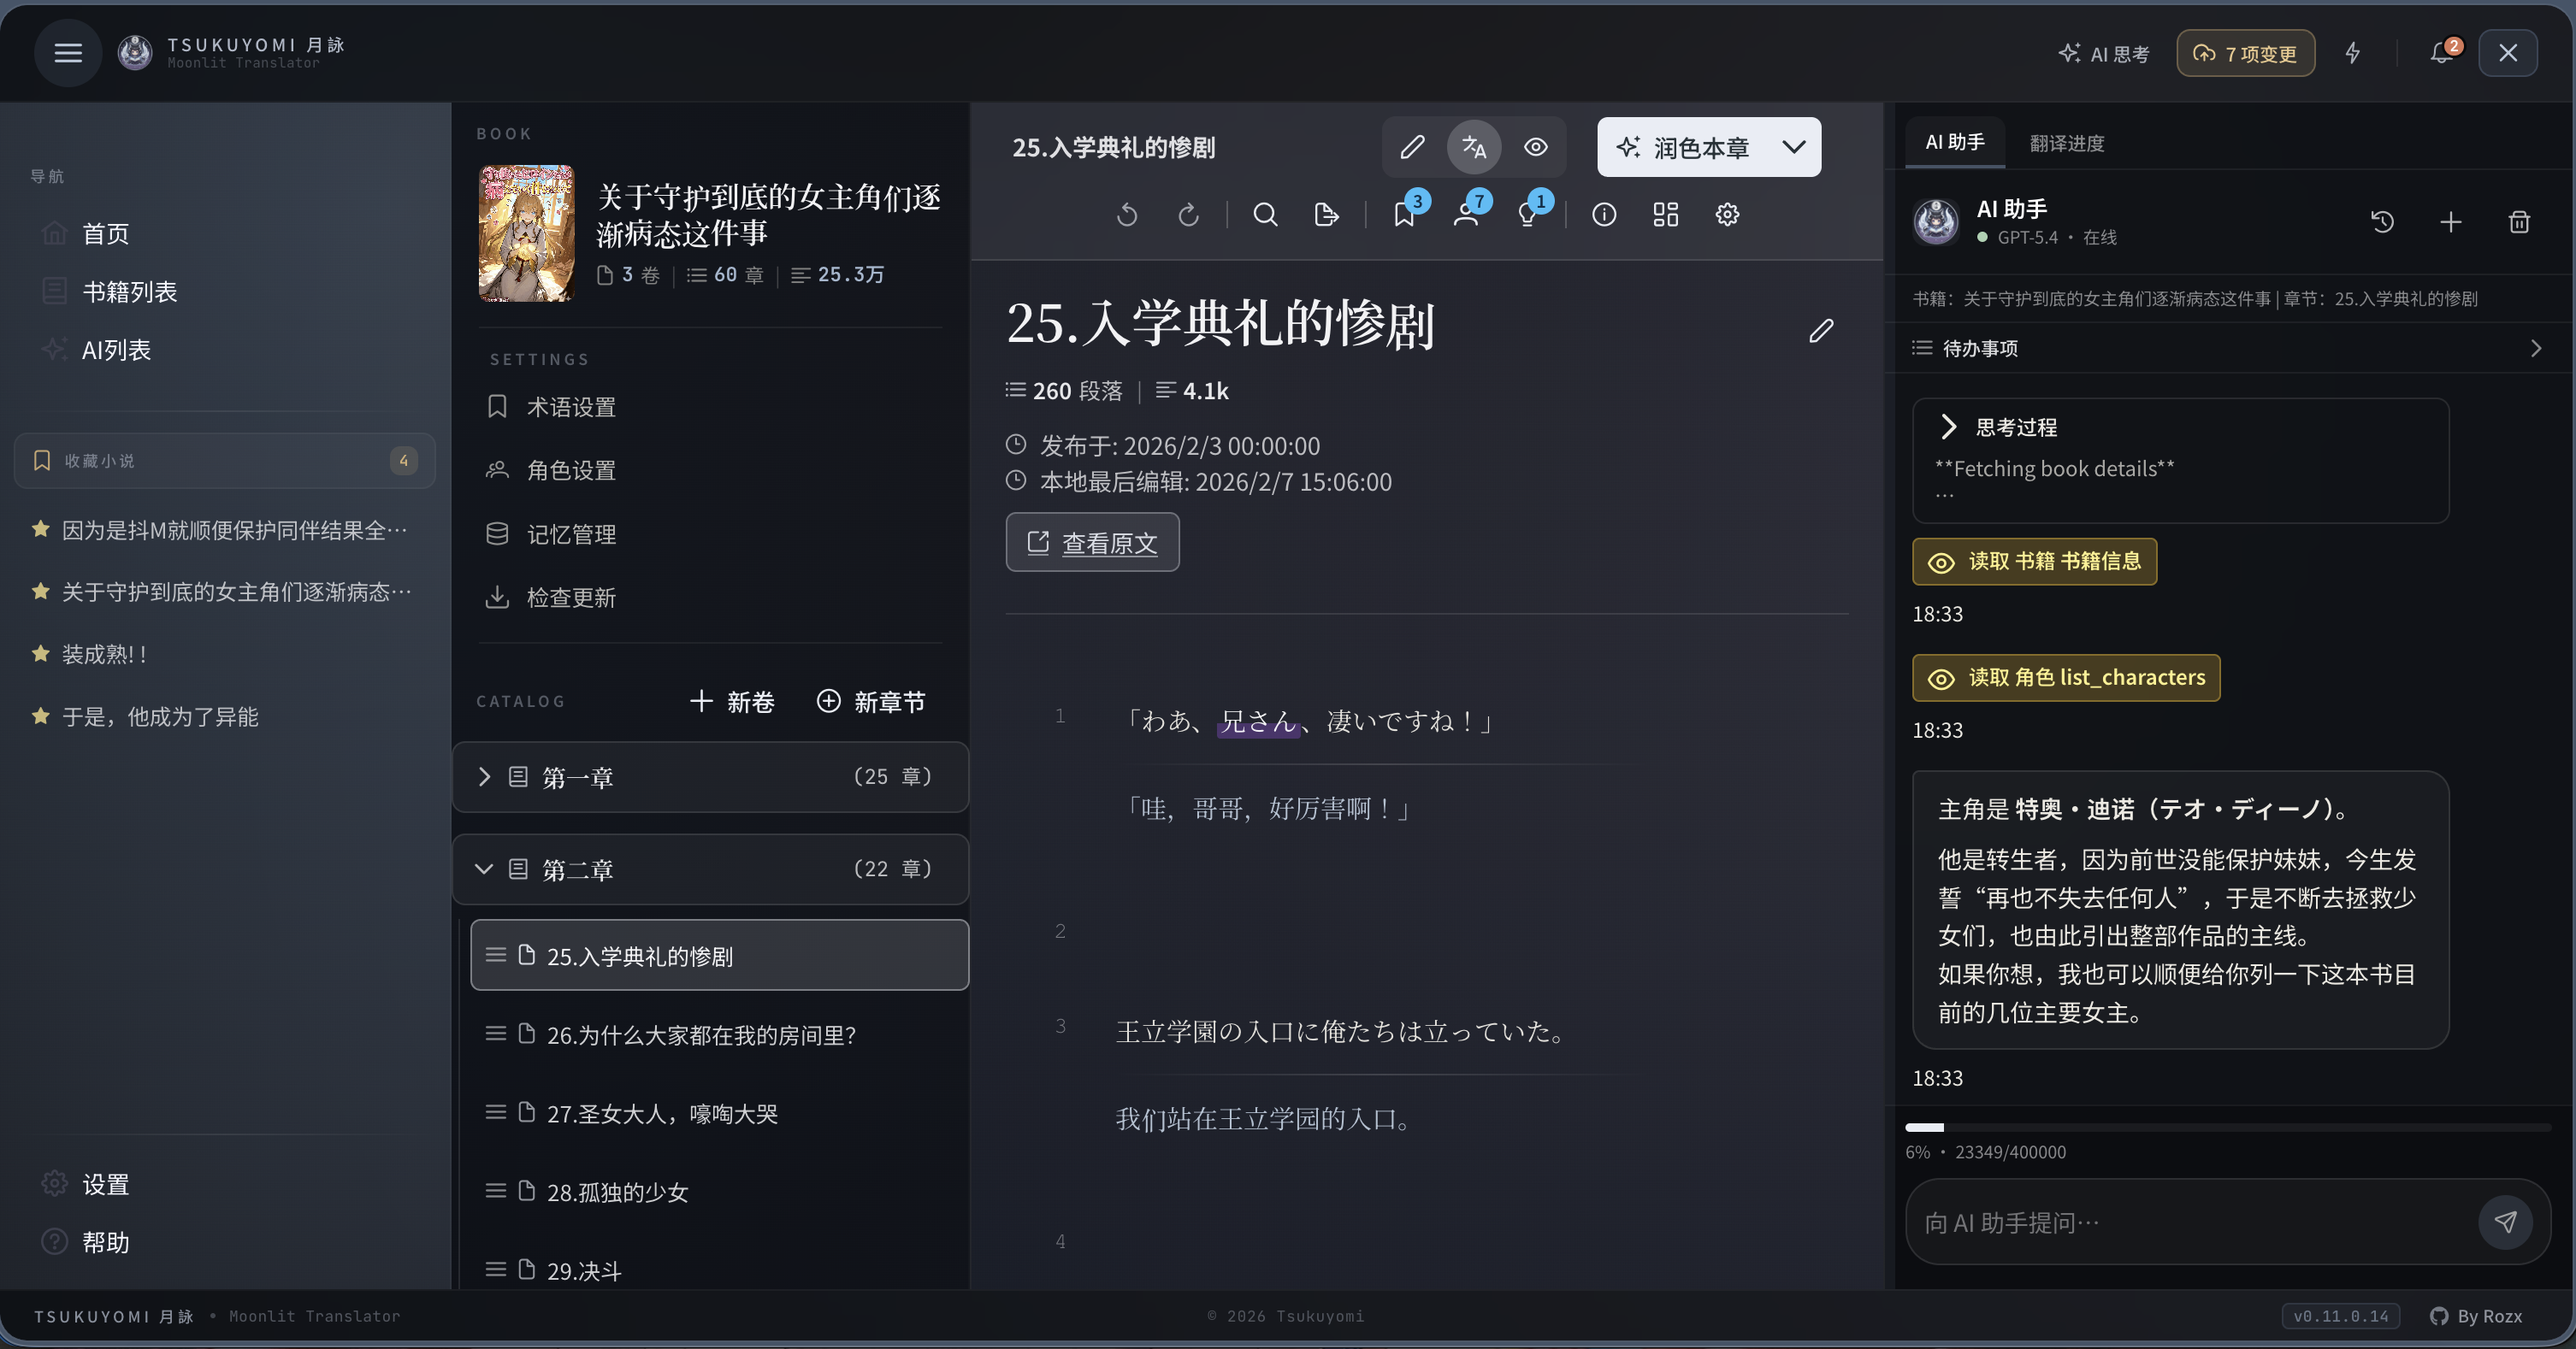
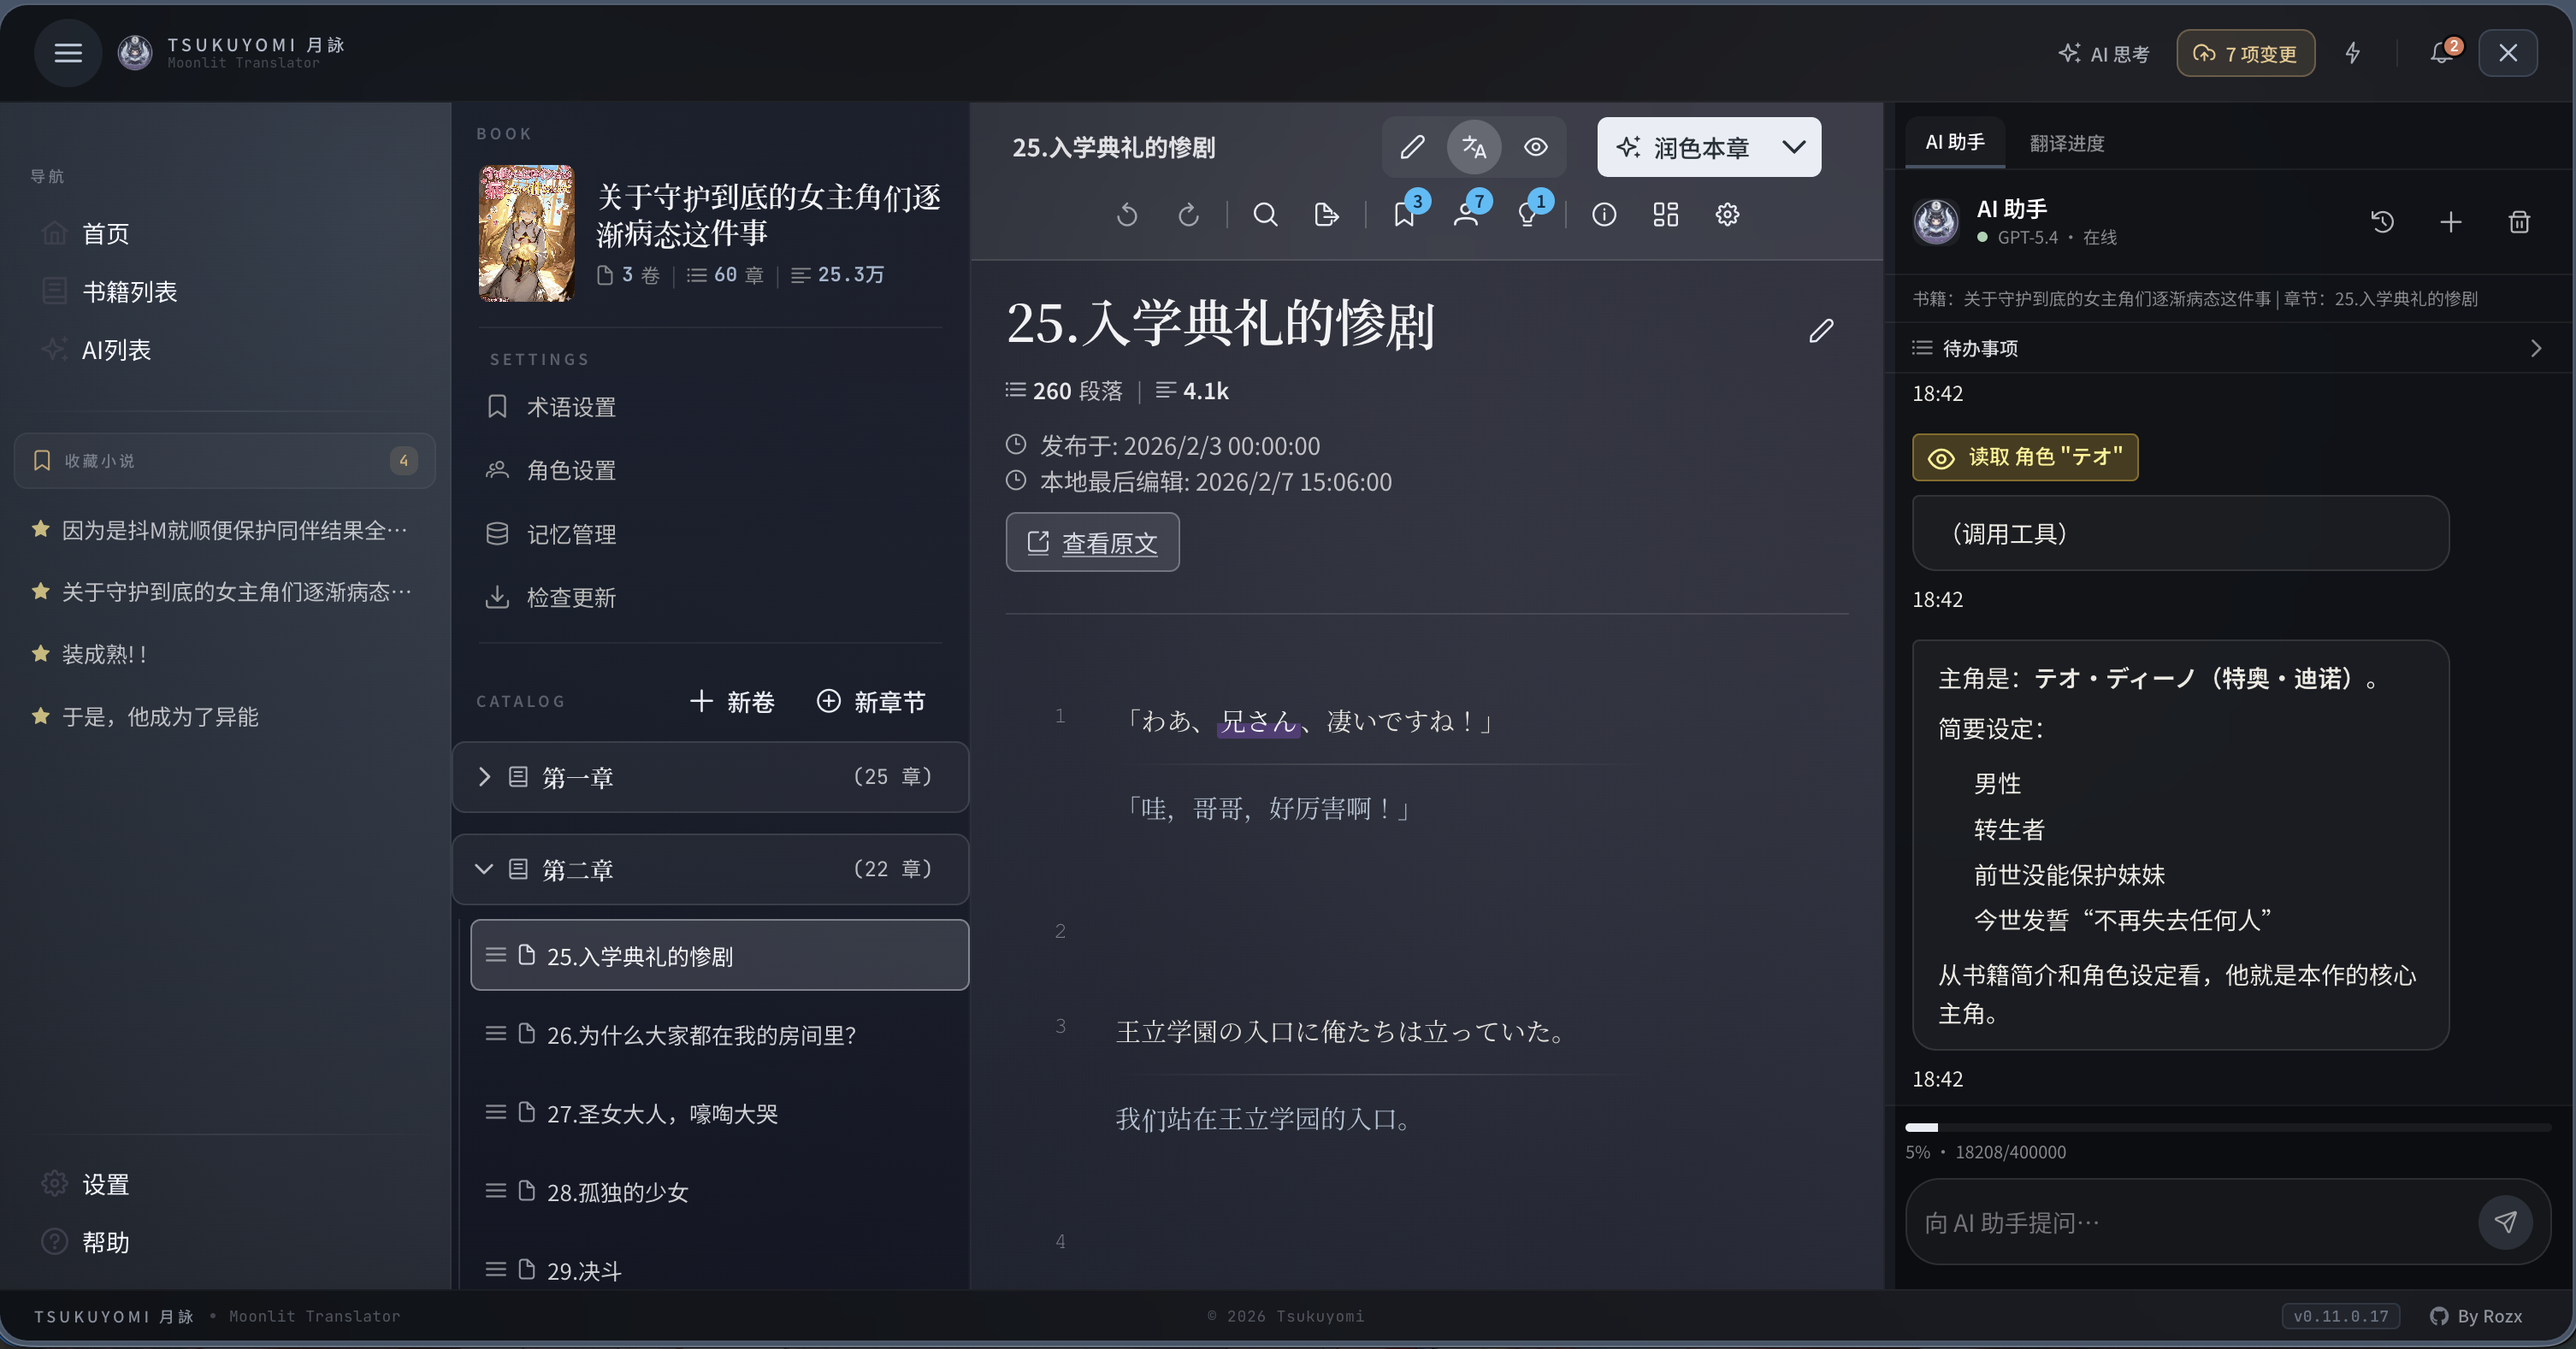
docs(screenshots): refresh desktop reader and book-details captures

Changed region(s): [[0.7178, 0.3105, 0.9363, 0.7763]]

diff --git a/src/constants/version.ts b/src/constants/version.ts
@@ -1,4 +1,4 @@
 // 应用版本号
 // 此文件由 scripts/bump-version.ts 自动生成，请勿手动修改
 // 如需更新版本，请运行: bun scripts/bump-version.ts <major|minor|patch|build|version>
-export const APP_VERSION = '0.11.0.17';
+export const APP_VERSION = '0.11.0.18';
